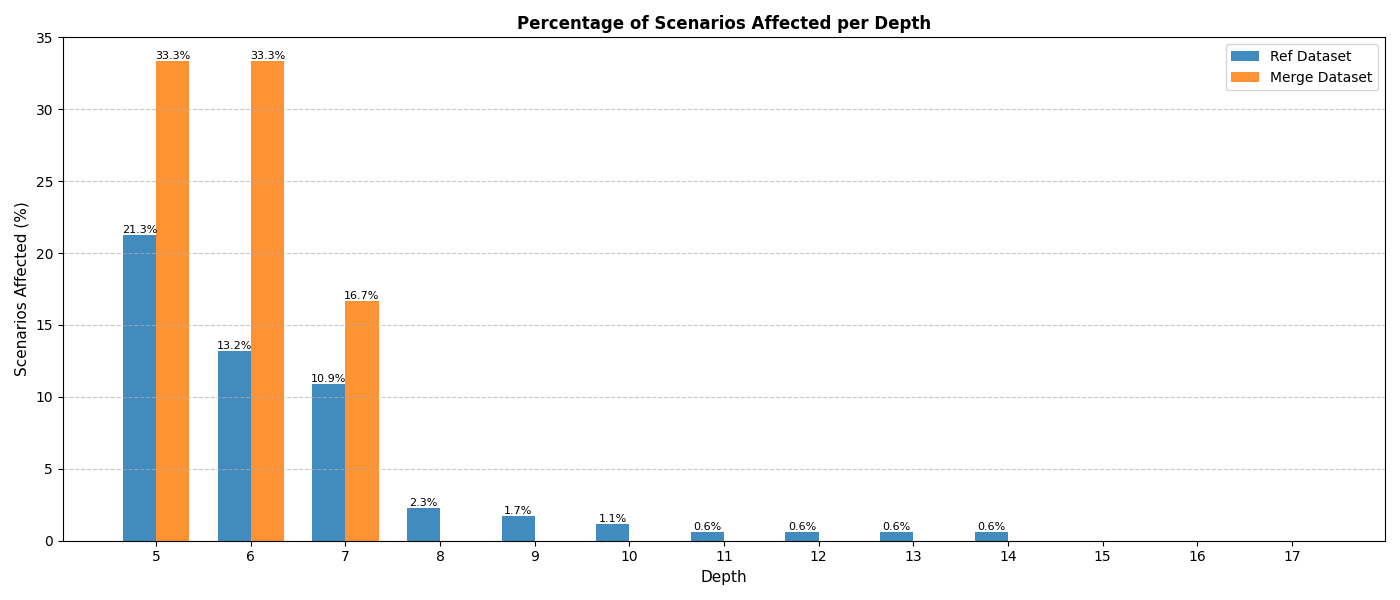
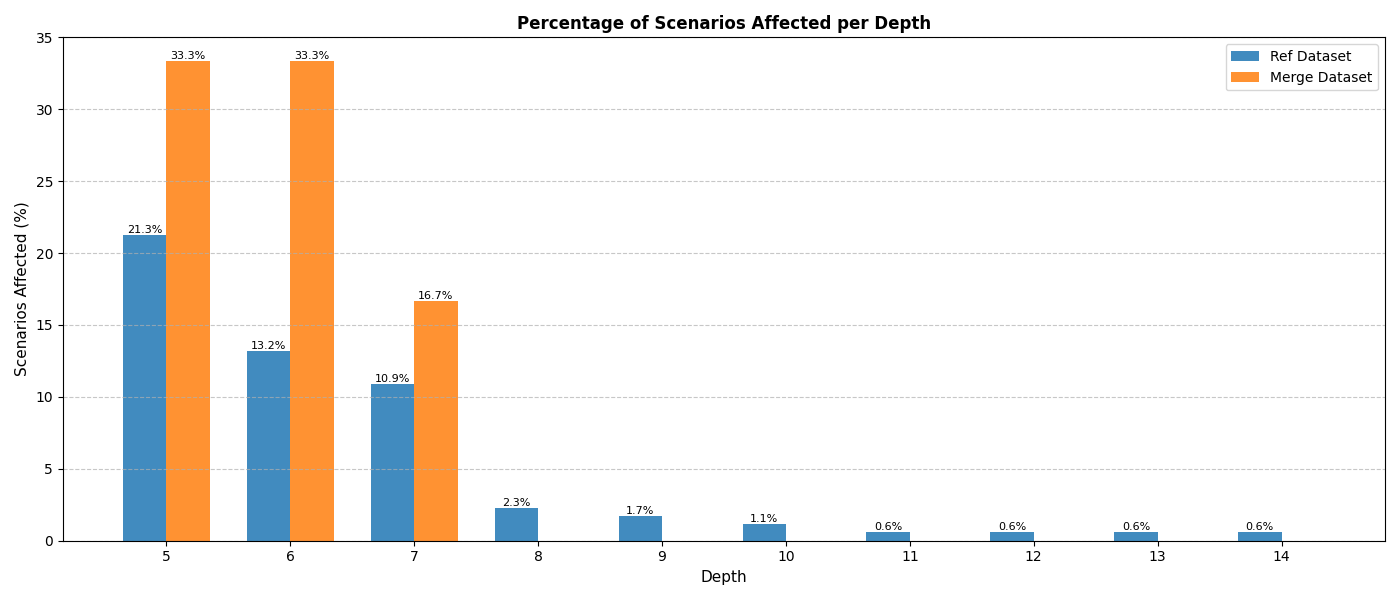
Çadding new comparable graph

diff --git a/OA-analysis-report/scenarioAnalysis/scenarioAnalysis.py b/OA-analysis-report/scenarioAnalysis/scenarioAnalysis.py
@@ -161,6 +161,9 @@ class ScenarioAnalyzer:
         
         # Metric histograms - median/max/min per scenario
         self._plot_scenario_metric_histograms(conflict_df, compare_conflict_df, label1, label2)
+        
+        # Grouped depth metrics - median/max/min per scenario grouped by depth ranges
+        self._plot_scenario_depth_grouped_metrics(conflict_df, compare_conflict_df, label1, label2)
 
     def _plot_scenario_depth_metrics(self, conflict_df, compare_conflict_df=None, label1='Data 1', label2='Data 2'):
         """Plot scenario depth affected and lost per depth"""
@@ -250,6 +253,62 @@ class ScenarioAnalyzer:
                         metric_col=metric_col,
                         agg_func=agg_func,
                         title=f'{prefix} {title} per Scenario',
+                        filename=os.path.join(self.output_dir, filename)
+                    )
+
+    def _plot_scenario_depth_grouped_metrics(self, df, compare_df=None, label1='Data 1', label2='Data 2'):
+        """Plot grouped bar charts for median/max/min depth per scenario by depth ranges (0-2, 2-5, 5-10, 10-20)"""
+        # Define depth range groups
+        depth_groups = [(0, 2), (2, 5), (5, 10), (10, 20)]
+        group_labels = ['0-2', '2-5', '5-10', '10-20']
+        
+        # Calculate metrics for each depth group
+        metrics = {
+            COL_DEPTH: ('Conflict Depth', [PLOT_MEDIAN_DEPTH_GROUPED, PLOT_MAX_DEPTH_GROUPED, PLOT_MIN_DEPTH_GROUPED]),
+        }
+        
+        for metric_col, (title, filenames) in metrics.items():
+            for agg_func, filename in zip(['median', 'max', 'min'], filenames):
+                prefix = agg_func.capitalize()
+                
+                # Calculate metrics for each depth range group
+                scenario_metrics = df.groupby(COL_SCENARIO_INDEX)[metric_col].agg(agg_func)
+                total_scenarios = len(scenario_metrics)
+                
+                # Calculate percentages for each depth group
+                percentages1 = []
+                for min_depth, max_depth in depth_groups:
+                    count = len(scenario_metrics[(scenario_metrics >= min_depth) & (scenario_metrics < max_depth)])
+                    percentage = (count / total_scenarios * 100) if total_scenarios > 0 else 0
+                    percentages1.append(percentage)
+                
+                if compare_df is not None:
+                    scenario_metrics2 = compare_df.groupby(COL_SCENARIO_INDEX)[metric_col].agg(agg_func)
+                    total_scenarios2 = len(scenario_metrics2)
+                    percentages2 = []
+                    for min_depth, max_depth in depth_groups:
+                        count = len(scenario_metrics2[(scenario_metrics2 >= min_depth) & (scenario_metrics2 < max_depth)])
+                        percentage = (count / total_scenarios2 * 100) if total_scenarios2 > 0 else 0
+                        percentages2.append(percentage)
+                    
+                    self.visualizer.plot_grouped_bar_chart_compare(
+                        x=group_labels,
+                        y1=percentages1,
+                        y2=percentages2,
+                        label1=label1,
+                        label2=label2,
+                        title=f'{prefix} {title} per Scenario',
+                        xlabel='Depth Range',
+                        ylabel='Percentage of Scenarios (%)',
+                        filename=os.path.join(self.output_dir, 'compare_' + filename)
+                    )
+                else:
+                    self.visualizer.plot_bar_chart(
+                        x=group_labels,
+                        y=percentages1,
+                        title=f'{prefix} {title} per Scenario',
+                        xlabel='Depth Range',
+                        ylabel='Percentage of Scenarios (%)',
                         filename=os.path.join(self.output_dir, filename)
                     )
 

diff --git a/OA-analysis-report/visualization.py b/OA-analysis-report/visualization.py
@@ -90,7 +90,12 @@ class Visualizer:
         plt.xticks(range(len(x)))
 
         for i, v in enumerate(y):
-            ax.text(i, v, f"{v:.1f}%", ha="center", va="bottom")
+            # Format label based on whether it's a percentage or count
+            if '%' in ylabel:
+                label_text = f"{v:.1f}%"
+            else:
+                label_text = f"{int(v)}"
+            ax.text(i, v, label_text, ha="center", va="bottom")
 
         ax.grid(True, axis="y", linestyle="--", alpha=0.7)
         self._save_plot(filename)
@@ -307,6 +312,53 @@ class Visualizer:
                     ax.text(bar.get_x() + bar.get_width()/2., height,
                            f'{height:.1f}%',
                            ha='center', va='bottom', fontsize=8)
+        
+        # Customize axes
+        ax.set_xlabel(xlabel, fontsize=11)
+        ax.set_ylabel(ylabel, fontsize=11)
+        ax.set_title(title, fontsize=12, fontweight='bold')
+        ax.set_xticks(x_indices)
+        ax.set_xticklabels(x)
+        ax.legend(loc='best', fontsize=10)
+        ax.grid(True, axis='y', linestyle='--', alpha=0.7)
+        
+        self._save_plot(filename)
+
+    def plot_grouped_bar_chart_compare(
+        self, x, y1, y2, label1, label2, title, xlabel, ylabel, filename
+    ):
+        """Plot grouped bar chart with double bars per x-category for comparison"""
+        import numpy as np
+        
+        fig, ax = plt.subplots(figsize=(14, 6))
+        
+        # Create positions for grouped bars
+        n_groups = len(x)
+        bar_width = 0.35
+        x_indices = np.arange(n_groups)
+        
+        # Get colors from palette
+        palette = sns.color_palette("tab10", 2)
+        
+        # Create bars
+        bars1 = ax.bar(x_indices - bar_width/2, y1, bar_width, 
+                       label=label1, color=palette[0], alpha=0.85)
+        bars2 = ax.bar(x_indices + bar_width/2, y2, bar_width, 
+                       label=label2, color=palette[1], alpha=0.85)
+        
+        # Add value labels on bars
+        for bars in [bars1, bars2]:
+            for bar in bars:
+                height = bar.get_height()
+                if height > 0:
+                    # Format label based on whether it's a percentage or count
+                    if '%' in ylabel:
+                        label_text = f'{height:.1f}%'
+                    else:
+                        label_text = f'{int(height)}'
+                    ax.text(bar.get_x() + bar.get_width()/2., height,
+                           label_text,
+                           ha='center', va='bottom', fontsize=9)
         
         # Customize axes
         ax.set_xlabel(xlabel, fontsize=11)

diff --git a/OA-analysis-report/constants.py b/OA-analysis-report/constants.py
@@ -45,9 +45,13 @@ PLOT_MIN_DIFF = 'min_diff_per_scenario.png'
 PLOT_DEPTH_LOSS = 'conflicts_depth_loss.png'
 PLOT_SCENARIO_DEPTH_AFFECT = 'scenarios_depth_affect.png'
 PLOT_SCENARIO_DEPTH_LOSS = 'scenarios_depth_loss.png'
+PLOT_MEDIAN_DEPTH_GROUPED = 'median_depth_grouped_per_scenario.png'
+PLOT_MAX_DEPTH_GROUPED = 'max_depth_grouped_per_scenario.png'
+PLOT_MIN_DEPTH_GROUPED = 'min_depth_grouped_per_scenario.png'
 
 # Analysis thresholds and bins
 PERCENTAGE_BUCKETS = [20, 40, 60, 80, 100]
+DEPTH_GROUPS = [(0, 2), (2, 5), (5, 10), (10, 20)]  # Depth range groups
 CONFLICT_TYPES_BINS = 4
 DEFAULT_HIST_BINS = 30
 DEFAULT_DEPTH = 5
